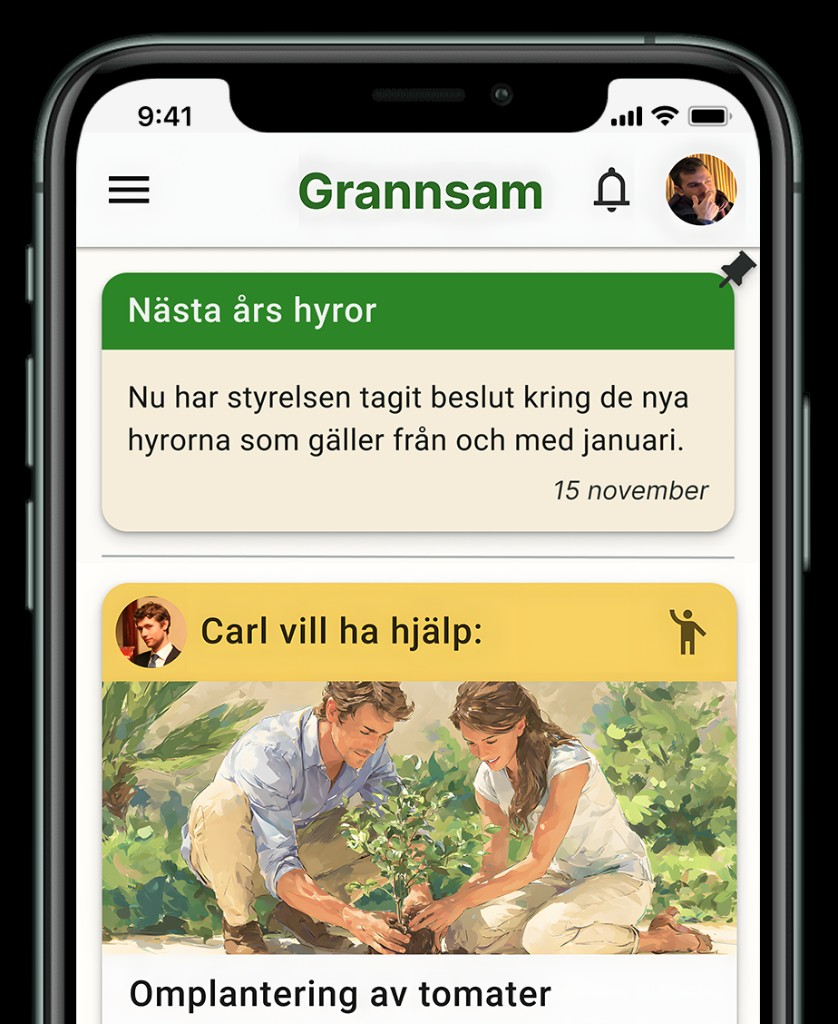
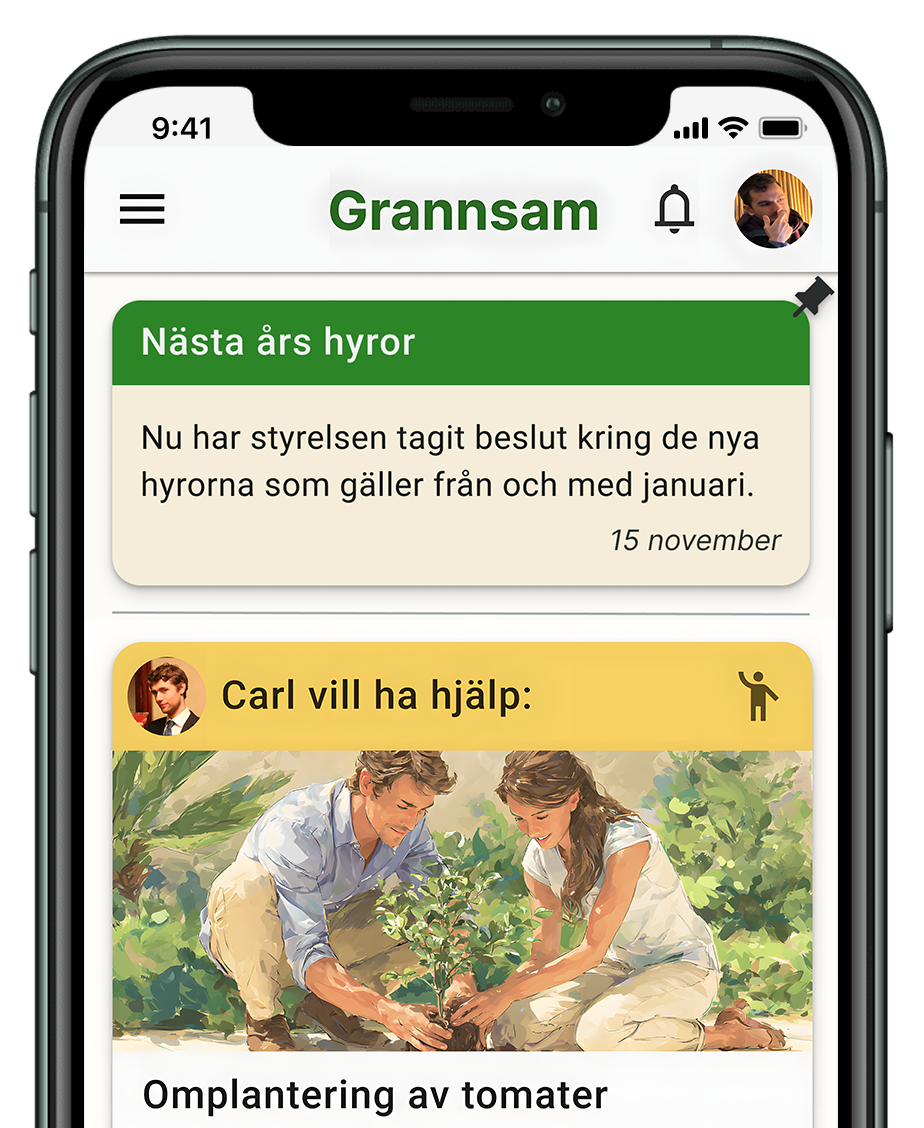
correctly copy over png image rather than from chat

Changed region(s): [[0.0, 0.0, 1.0, 1.0], [0.4344, 0.7812, 0.4654, 0.8125], [0.3413, 0.5938, 0.3723, 0.625]]

diff --git a/components/sections/HeroSection.tsx b/components/sections/HeroSection.tsx
@@ -65,7 +65,7 @@ export function HeroSection() {
         </div>
 
         <div className="relative mx-auto w-full max-w-[360px] justify-self-center lg:max-w-[400px] lg:justify-self-end">
-          <div className="relative aspect-[838/1024] w-full overflow-hidden rounded-[2rem] shadow-[0_20px_50px_rgba(38,43,46,0.14)]">
+          <div className="relative aspect-[924/1128] w-full">
             <Image
               src="/images/hero-phone-mockup.png"
               alt="Grannsam-appen visar en styrelseavisering och pågående grannhjälp"